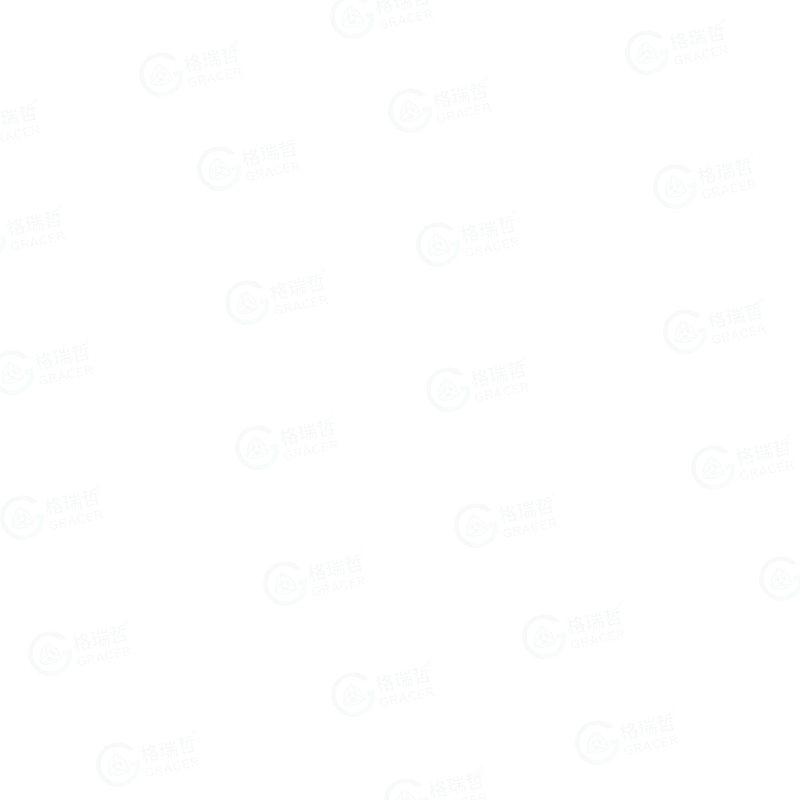
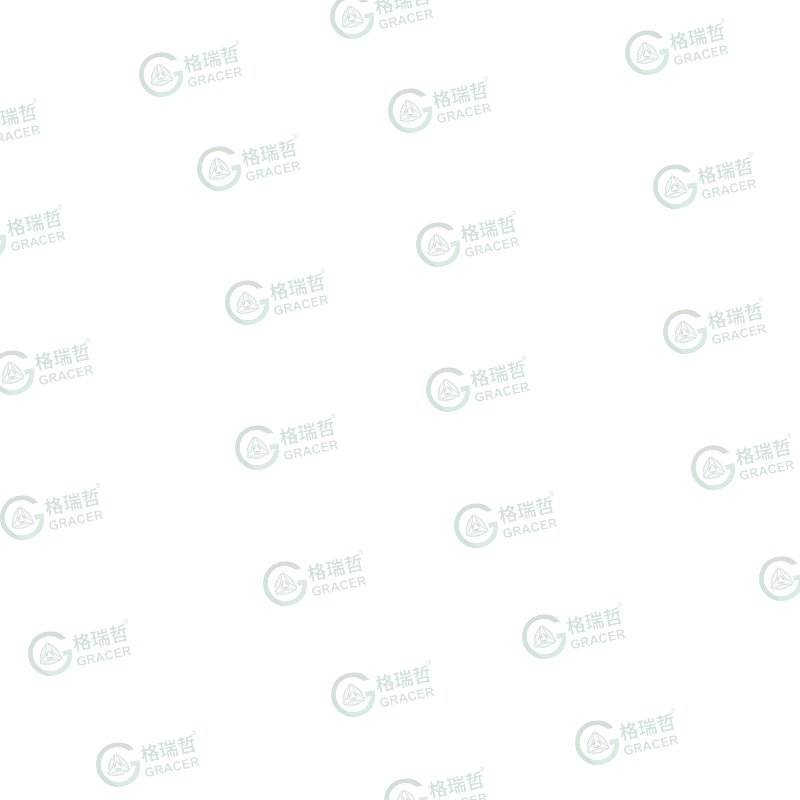
加深图片水印并提升用户名可见度

diff --git a/src/utils/image-watermark.ts b/src/utils/image-watermark.ts
@@ -323,6 +323,7 @@ function drawWatermark(
   )
 
   context.save()
+  // Logo 的颜色和不透明度由 PNG 素材控制。
   context.globalAlpha = 1
   context.drawImage(watermark, offsetX, offsetY, drawWidth, drawHeight)
   context.restore()
@@ -338,7 +339,7 @@ function drawUserName(context: WatermarkCanvasContext, userName: string, width: 
   const fontSize = Math.max(8, Math.round(WATERMARK_ACCOUNT_FONT_SIZE * scale))
 
   context.save()
-  context.globalAlpha = 0.45
+  context.globalAlpha = 0.65
   context.fillStyle = '#8FB8A1'
   context.font = `500 ${fontSize}px sans-serif`
   context.textAlign = 'center'
